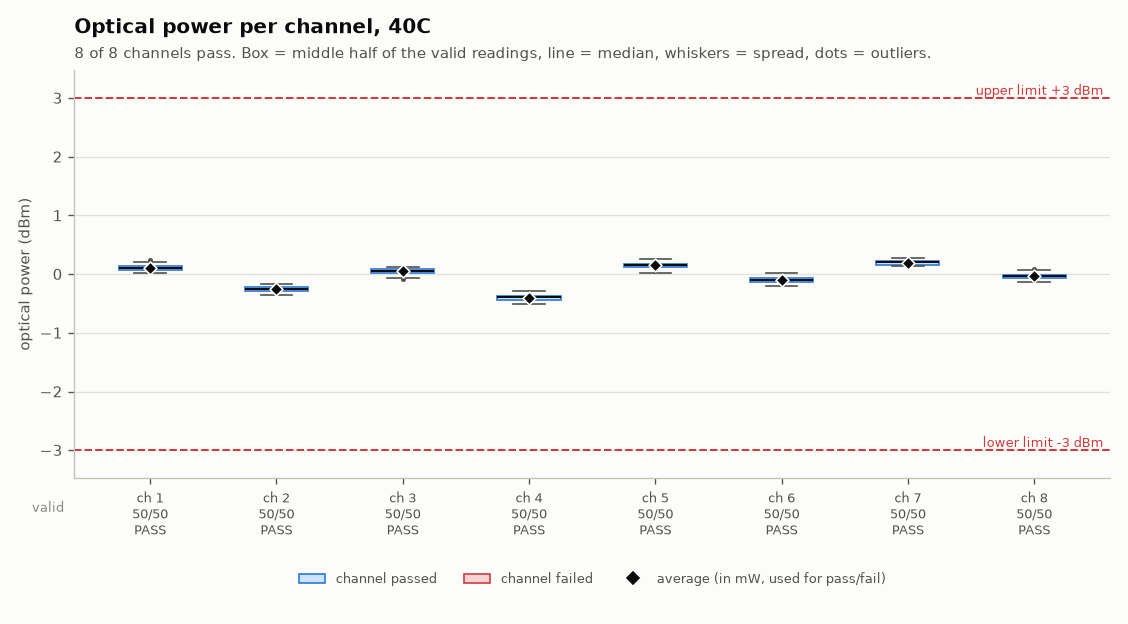
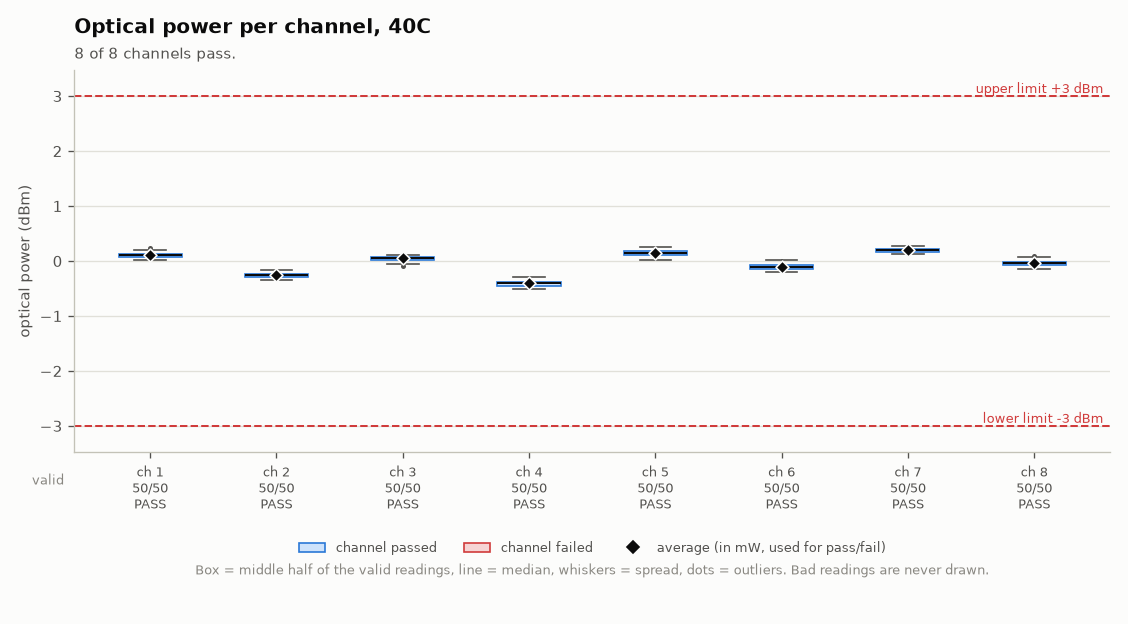
Allow a set number of bad readings per channel; redraw charts when re-checking with new limits

diff --git a/src/ate/data/plots.py b/src/ate/data/plots.py
@@ -75,6 +75,16 @@ def _title(ax, text: str, subtitle: str) -> None:
 # --------------------------------------------------------------------------- 1. power
 
 
+def _allowance(config: AppConfig) -> str:
+    """How many bad readings the limits allow, shown under each channel when it isn't zero."""
+    limits = config.limits
+    if not limits.require_all_valid:
+        return " Any number of bad readings allowed."
+    if limits.max_bad_readings:
+        return f" Up to {limits.max_bad_readings} bad reading(s) allowed per channel."
+    return ""
+
+
 def plot_power(path: Path, finals: list[RawRow], cond: ConditionResult, config: AppConfig) -> None:
     from matplotlib.lines import Line2D
     from matplotlib.patches import Patch
@@ -132,8 +142,10 @@ def plot_power(path: Path, finals: list[RawRow], cond: ConditionResult, config: 
 
     failed = sum(1 for ch in channels if ch.result != "PASS")
     _title(ax, f"Optical power per channel, {cond.label}",
-           f"{len(channels) - failed} of {len(channels)} channels pass. "
-           "Box = middle half of the valid readings, line = median, whiskers = spread, dots = outliers.")
+           f"{len(channels) - failed} of {len(channels)} channels pass.{_allowance(config)}")
+    ax.text(0.5, -0.29, "Box = middle half of the valid readings, line = median, whiskers = spread, "
+            "dots = outliers. Bad readings are never drawn.", transform=ax.transAxes, ha="center",
+            va="top", fontsize=8, color=MUTED)
     ax.legend(
         handles=[Patch(facecolor=BAND, edgecolor=SERIES[0], label="channel passed"),
                  Patch(facecolor="#f6d4d4", edgecolor=CRITICAL, label="channel failed"),
@@ -270,14 +282,18 @@ def plot_status(path: Path, all_rows: list[RawRow], finals: list[RawRow], cond: 
 # --------------------------------------------------------------------------- all of them
 
 
-def write_plots(run_dir: Path, rows: list[RawRow], summary: RunSummary, config: AppConfig) -> list[Path]:
-    """Draw every chart for a run into its folder. Returns the files written."""
+def write_plots(run_dir: Path, rows: list[RawRow], summary: RunSummary, config: AppConfig,
+                suffix: str = "") -> list[Path]:
+    """Draw every chart for a run into its folder. Returns the files written.
+
+    ``suffix`` keeps re-processed charts (new limits) apart from the originals, which are never overwritten.
+    """
     run_dir = Path(run_dir)
     finals = final_attempts(rows)
     conditions = {c.label: c for c in config.sequence.conditions}
     written = []
     for cond in summary.conditions:
-        name = _safe(cond.label)
+        name = _safe(cond.label) + suffix
         jobs = [
             (f"power_{name}.png", lambda p: plot_power(p, finals, cond, config)),
             (f"temperature_{name}.png", lambda p: plot_temperature(p, finals, cond, conditions[cond.label], config)),
@@ -289,8 +305,9 @@ def write_plots(run_dir: Path, rows: list[RawRow], summary: RunSummary, config: 
     return written
 
 
-def plot_run(run_dir: Path) -> list[Path]:
-    """Draw the charts for a saved run (``ate plot``), using the config it was run with."""
+def plot_run(run_dir: Path, config_path: Path | None = None, suffix: str = "") -> list[Path]:
+    """Draw the charts for a saved run: with the config it was run with (``ate plot``), or with new
+    limits from another config (``ate reprocess --config``, which passes a suffix)."""
     from ate.config import load_config
     from ate.data.analysis import analyze, load_raw_rows
     from ate.data.report import CONFIG_FILE, RAW_FILE, RUN_INFO_FILE, read_json
@@ -299,9 +316,9 @@ def plot_run(run_dir: Path) -> list[Path]:
     raw_path = run_dir / RAW_FILE
     if not raw_path.is_file():
         raise FileNotFoundError(f"no {RAW_FILE} in {run_dir}")
-    config = load_config(run_dir / CONFIG_FILE)
+    config = load_config(config_path or run_dir / CONFIG_FILE)
     info = read_json(run_dir / RUN_INFO_FILE) if (run_dir / RUN_INFO_FILE).is_file() else {}
     rows = load_raw_rows(raw_path)
     summary = analyze(rows, config, info.get("run_id", run_dir.name),
                       info.get("device_serial", config.run.device_serial))
-    return write_plots(run_dir, rows, summary, config)
+    return write_plots(run_dir, rows, summary, config, suffix)

diff --git a/tests/data/test_plots.py b/tests/data/test_plots.py
@@ -8,7 +8,7 @@ from ate.cli import main
 from ate.data import plots
 from ate.data.analysis import RawRow, final_attempts, load_raw_rows
 from ate.data.models import Status
-from tests.helpers import build_config, load_data, run
+from tests.helpers import CONFIG_DIR, build_config, load_data, run
 
 pytest.importorskip("matplotlib")
 
@@ -80,3 +80,24 @@ def test_plot_command_draws_charts_for_an_old_run(tmp_path, capsys):
 
 def test_plot_command_on_a_folder_without_data_is_an_error(tmp_path):
     assert main(["plot", str(tmp_path)]) == 2
+
+
+def test_the_power_chart_label_shows_how_many_bad_readings_are_allowed(tmp_path):
+    assert plots._allowance(build_config(tmp_path)) == ""
+    assert "Up to 2 bad reading(s) allowed" in plots._allowance(build_config(tmp_path, limits__max_bad_readings=2))
+    assert "Any number" in plots._allowance(build_config(tmp_path, limits__require_all_valid=False))
+
+
+def test_reprocess_with_new_limits_draws_new_charts_and_keeps_the_originals(tmp_path, capsys):
+    result = run(build_config(tmp_path, clean=True, run__save_plots=True))
+    originals = {p.name: p.read_bytes() for p in result.run_dir.glob("*.png")}
+    strict = tmp_path / "strict.yaml"
+    strict.write_text(f"extends: {CONFIG_DIR / 'default.yaml'}\nlimits:\n  avg_power_dbm: {{min: -0.1, max: 0.1}}\n")
+
+    assert main(["reprocess", str(result.run_dir), "--config", str(strict)]) == 1  # ch 4 now fails
+    summary_file = next(result.run_dir.glob("summary_reprocessed_*.csv"))
+    suffix = summary_file.stem.removeprefix("summary")
+    new = sorted(p.name for p in result.run_dir.glob(f"*{suffix}.png"))
+    assert new == [f"power_40C{suffix}.png", f"status_40C{suffix}.png", f"temperature_40C{suffix}.png"]
+    assert {p.name: p.read_bytes() for p in result.run_dir.glob("*_40C.png")} == originals
+    assert "Chart written to" in capsys.readouterr().out

diff --git a/tests/data/test_analysis.py b/tests/data/test_analysis.py
@@ -101,6 +101,20 @@ def test_require_all_valid_can_be_relaxed(tmp_path):
     assert analyse(tmp_path, rows, limits__require_all_valid=False).conditions[0].channels[0].result == PASS
 
 
+@pytest.mark.parametrize("allowed, result", [(0, FAIL), (1, FAIL), (2, PASS)])
+def test_a_set_number_of_bad_readings_can_be_allowed(tmp_path, allowed, result):
+    rows = [meas(1, 0.0), meas(2, None, Status.INVALID), meas(3, None, Status.TIMEOUT)]  # 2 bad of 3
+    ch = analyse(tmp_path, rows, limits__max_bad_readings=allowed).conditions[0].channels[0]
+    assert ch.result == result
+    assert ch.avg_dbm == 0.0  # bad readings never enter the statistics, allowed or not
+
+
+def test_allowed_bad_readings_do_not_rescue_a_channel_outside_the_limits(tmp_path):
+    rows = [meas(1, -4.0), meas(2, None, Status.INVALID), meas(3, -4.0)]
+    ch = analyse(tmp_path, rows, limits__max_bad_readings=1).conditions[0].channels[0]
+    assert ch.result == FAIL and ch.fail_reasons == ["avg_below_min"]
+
+
 def test_only_the_final_attempt_counts(tmp_path):
     rows = [meas(1, None, Status.TIMEOUT, attempt=1), meas(1, 0.0, attempt=2), meas(2, 0.0), meas(3, 0.0)]
     ch = analyse(tmp_path, rows).conditions[0].channels[0]

diff --git a/src/ate/config.py b/src/ate/config.py
@@ -144,6 +144,7 @@ class PowerLimits(_Model):
 class LimitsConfig(_Model):
     avg_power_dbm: PowerLimits = Field(default_factory=PowerLimits)
     require_all_valid: bool = True
+    max_bad_readings: int = Field(0, ge=0)  # with require_all_valid: readings per channel allowed to not end VALID
     retry_warning_fraction: float = Field(0.05, ge=0, le=1)
     temp_drift_warning: bool = True
 
@@ -236,6 +237,13 @@ class AppConfig(_Model):
             for inst in self.instruments:
                 if inst.address == "auto":
                     problems.append(f"{inst.name}: real hardware needs a real address, not 'auto'")
+
+        readings = self.sequence.measurement.readings_per_channel
+        if self.limits.require_all_valid and self.limits.max_bad_readings >= readings:
+            problems.append(
+                f"limits.max_bad_readings ({self.limits.max_bad_readings}) must be less than "
+                f"readings_per_channel ({readings}); to accept any number, set require_all_valid: false"
+            )
 
         tec_names = {t.name for t in self.tecs()}
         for cond in self.sequence.conditions:

diff --git a/src/ate/cli.py b/src/ate/cli.py
@@ -63,6 +63,15 @@ def cmd_reprocess(args: argparse.Namespace) -> int:
     summary, out = reprocess_run(Path(args.run_dir), Path(args.config) if args.config else None)
     print(format_summary(summary))
     print(f"\nSummary written to {out}")
+    if args.config:  # new limits: draw matching charts next to the originals (never over them)
+        from ate.data.plots import plot_run, plots_available
+
+        if plots_available():
+            suffix = out.stem.removeprefix("summary")  # e.g. _reprocessed_20261124-153000
+            for path in plot_run(Path(args.run_dir), Path(args.config), suffix):
+                print(f"Chart written to {path}")
+        else:
+            print('Charts not redrawn: matplotlib is not installed (pip install ".[plots]")')
     return 0 if summary.overall_result == "PASS" else 1
 
 

diff --git a/tests/config/test_config.py b/tests/config/test_config.py
@@ -55,6 +55,12 @@ def test_limits_must_be_ordered():
     assert "must be below max" in problems(load_data(), limits__avg_power_dbm={"min": 3, "max": -3})
 
 
+def test_allowed_bad_readings_must_be_fewer_than_the_readings_taken():
+    assert "max_bad_readings (50) must be less than readings_per_channel (50)" in problems(
+        load_data(), limits__max_bad_readings=50)
+    parse_config(load_data(), overrides={"limits.max_bad_readings": 50, "limits.require_all_valid": False})
+
+
 def test_offsets_must_match_channel_count():
     assert "channel_offsets_db has 2 values" in problems(load_data(), simulation__device__channel_offsets_db=[0, 0])
 

diff --git a/src/ate/data/analysis.py b/src/ate/data/analysis.py
@@ -208,7 +208,7 @@ def _channel_result(rows: list[RawRow], all_rows: list[RawRow], cond: Condition,
 
     if not values:
         result.fail_reasons.append("no_valid_readings")
-    elif limits.require_all_valid and result.valid_count < expected:
+    elif limits.require_all_valid and expected - result.valid_count > limits.max_bad_readings:
         result.fail_reasons.append(f"invalid_readings({expected - result.valid_count}/{expected})")
     if result.avg_dbm is not None:
         # Compare at a fixed resolution so the limits are truly inclusive: converting -3 dBm to mW

diff --git a/docs/DESIGN.md b/docs/DESIGN.md
@@ -624,6 +624,7 @@ sequence:
 limits:
   avg_power_dbm: { min: -3.0, max: 3.0 }
   require_all_valid: true
+  max_bad_readings: 0              # bad readings allowed per channel (0 = all must be valid)
   retry_warning_fraction: 0.05     # flag channels needing retries on >5% of readings
   temp_drift_warning: true         # flag if monitored temp leaves tolerance during measurement
 ```
@@ -807,6 +808,12 @@ If a channel has no valid readings, its statistics are blank and it fails.
 
 `ate reprocess results/<run>` re-runs the analysis on saved data, e.g. with different limits, without re-testing.
 
+### 10.4 Pass/fail rules
+- **Channel passes** if: all 50 readings' final attempts are `VALID` **and** average power is within −3 to +3 dBm. `limits.max_bad_readings` (default 0) can allow a set number of bad readings per channel; bad readings never enter the statistics either way.
+- **Temperature verification passes** if the stability check succeeds within the allowed attempts.
+- **Device passes** only if every condition's temperature verification passes **and** every channel passes in every condition.
+- Warnings (retry rate, temperature drift) are reported but don't change pass/fail by default.
+
 ### 10.5 Charts
 Three charts per condition, drawn from the raw CSV and the summary (`data/plots.py`), so `ate plot` can draw them for any saved run:
 
@@ -816,13 +823,9 @@ Three charts per condition, drawn from the raw CSV and the summary (`data/plots.
 | **Temperature**: TEC reading over time, target band shaded, settling attempts marked, measurement period shaded | Did the TEC really settle, rather than pass through the band on the way up (§8)? |
 | **Status grid**: channel × reading, coloured by outcome | Where did problems happen? A whole column shows a whole message re-asked; a single square shows one channel re-read alone (§9). |
 
-matplotlib is an optional install. Charts are drawn after the summary is saved, and any problem drawing them is logged and ignored, so they can never cost a run its data.
+Every limit, target and count on a chart comes from the config, so the charts change with it. `ate reprocess --config` draws a second set with the same `_reprocessed_<time>` name as its new summary, so the run's original charts always match its original summary.
 
-### 10.4 Pass/fail rules
-- **Channel passes** if: all 50 readings' final attempts are `VALID` **and** average power is within −3 to +3 dBm.
-- **Temperature verification passes** if the stability check succeeds within the allowed attempts.
-- **Device passes** only if every condition's temperature verification passes **and** every channel passes in every condition.
-- Warnings (retry rate, temperature drift) are reported but don't change pass/fail by default.
+matplotlib is an optional install. Charts are drawn after the summary is saved, and any problem drawing them is logged and ignored, so they can never cost a run its data.
 
 ---
 
@@ -892,7 +895,7 @@ Run ID, serial number, seed, start and end times, status (`RUNNING` / `COMPLETE`
 
 ## 13. Testing approach
 
-Full detail and results are in [TESTING.md](TESTING.md). In summary: 201 automated tests, about 11 seconds.
+Full detail and results are in [TESTING.md](TESTING.md). In summary: 208 automated tests, about 10 seconds.
 
 ### 13.1 The test layout mirrors the code
 Each part is tested on its own, next to where it lives. Only `tests/system/` tests the whole program together. A new instrument gets its own `tests/instruments/<name>/` folder.
@@ -1071,5 +1074,6 @@ AI assistance (Claude, by Anthropic) was used to discuss and refine the design, 
 | **Roles** (`core/roles.py`): `TemperatureController`, `PowerMeter` | The sequence used to look for the specific TEC/OPM driver classes. It now asks for any instrument filling a role, which makes "a different brand of meter" a one-folder change. |
 | Simulator base class in `simulation/simulator.py`, not `core/` | It depends on the simulated clock and fault injector. Putting it in `core/` would make the shared machinery depend on the simulation. |
 | **Tests reorganised to mirror the code** (`tests/core/`, `tests/instruments/tec/`, …, `tests/system/`); 107 → 192 tests | Each part is tested where it lives; only `tests/system/` tests the whole program. Added tests for the registry, roles, PyVISA over a real socket, the bench's control commands and the simulator base. |
+| `limits.max_bad_readings` (default 0) | `require_all_valid` was all or nothing. This allows a set number of bad readings per channel; 0 keeps the brief's rule. Must be fewer than the readings taken. |
 | Charts per run (`data/plots.py`, `ate plot`, `run.save_plots`) | Added after the core system was done: box and whisker of power per channel, temperature over time, and a status grid. Optional dependency, never able to fail a run (§10.5). |
 | Run folder names: a clash now draws a new name instead of crashing | Two runs of the same serial in the same second could draw the same 4-character code. The folder was (correctly) never reused, but the run crashed. Found by testing a fresh clone (TESTING.md §8). |

diff --git a/README.md b/README.md
@@ -47,7 +47,7 @@ ate run --config config/examples/weak_channel.yaml
 
 ate validate --config my.yaml           # check a config without running anything
 ate reprocess results/<run-folder>      # re-analyse saved data without re-testing
-ate reprocess results/<run> --config strict.yaml   # new limits -> new summary file, original untouched
+ate reprocess results/<run> --config strict.yaml   # new limits -> new summary + charts, originals untouched
 ate plot results/<run-folder>           # draw the charts for a saved run (e.g. one made before charts existed)
 
 ate bench                               # start the simulators and leave them running...
@@ -60,7 +60,7 @@ Exit codes: `0` device passed, `1` device failed, `2` run aborted or invalid inp
 
 | Config | Shows |
 |---|---|
-| `config/default.yaml` | The brief: 40 °C ± 0.5, 50 readings × 8 channels, −3 to +3 dBm |
+| `config/default.yaml` | The brief: 40 °C ± 0.5, 50 readings × 8 channels, −3 to +3 dBm, all readings valid (`limits.max_bad_readings: 0`; raise it to allow a few bad readings per channel) |
 | `examples/weak_channel.yaml` | Channel 5 is 4 dB dim. All readings valid, channel fails on average power |
 | `examples/flaky_meter.yaml` | High fault rates. Retries, single-channel re-reads, invalid readings kept |
 | `examples/tec_wont_settle.yaml` | TEC settles 0.8 °C too hot. Two settling attempts, verification fails, light still measured |
@@ -72,7 +72,7 @@ Example configs use `extends: ../default.yaml` and override only what differs.
 ### Running the tests
 
 ```bash
-pytest                    # full suite (about 11 s)
+pytest                    # full suite (about 10 s)
 pytest tests/instruments/tec          # just one part, e.g. the TEC
 pytest -m "not slow"      # skip the 200-run statistical check
 pytest -m "not network"   # skip tests that open local network ports
@@ -145,7 +145,7 @@ See [docs/DESIGN.md](docs/DESIGN.md) for the full explanation.
 | `temperature_<condition>.png` | TEC temperature over time against the target band, settling attempts, and when light was measured |
 | `status_<condition>.png` | One square per planned reading, coloured by what happened: valid, valid after retry, timeout/garbled, invalid, not measured |
 
-Charts are drawn at the end of every run when matplotlib is installed (`pip install ".[plots]"`; included in `.[dev]`). Turn them off with `run.save_plots: false`. They are a convenience: if matplotlib is missing or a chart fails to draw, the run and its data are unaffected.
+Charts are drawn at the end of every run when matplotlib is installed (`pip install ".[plots]"`; included in `.[dev]`). Turn them off with `run.save_plots: false`. Charts follow the config: limit lines, the target band, pass/fail colours and the number of readings all come from it. Re-checking a run against new limits (`ate reprocess --config`) draws a second set of charts with the same `_reprocessed_<time>` name as the new summary, leaving the originals alone. They are a convenience: if matplotlib is missing or a chart fails to draw, the run and its data are unaffected.
 
 ---
 
@@ -172,7 +172,7 @@ Details: [docs/DESIGN.md §14](docs/DESIGN.md#14-extensibility).
 
 ## Testing approach (summary)
 
-201 automated tests, running in about 11 seconds (details and results in [docs/TESTING.md](docs/TESTING.md)). **The `tests/` folder mirrors `src/ate/`**: each part is tested next to where it lives, and only `tests/system/` tests the whole program together.
+208 automated tests, running in about 10 seconds (details and results in [docs/TESTING.md](docs/TESTING.md)). **The `tests/` folder mirrors `src/ate/`**: each part is tested next to where it lives, and only `tests/system/` tests the whole program together.
 
 | Tests | Check |
 |---|---|

diff --git a/docs/TESTING.md b/docs/TESTING.md
@@ -3,11 +3,11 @@
 How the system was verified, including error scenarios. All checks are automated and run with:
 
 ```bash
-pytest                         # 201 tests, about 11 seconds
+pytest                         # 208 tests, about 10 seconds
 pytest tests/instruments/tec   # or just one part
 ```
 
-**Result at time of writing: 201 passed, 0 failed** (Python 3.13.1, macOS). Before the charts were added, the 193 tests then in the suite passed on 12 consecutive full runs (see §8, issue 3).
+**Result at time of writing: 208 passed, 0 failed** (Python 3.13.1, macOS). Before the charts were added, the 193 tests then in the suite passed on 12 consecutive full runs (see §8, issue 3).
 
 ---
 
@@ -47,6 +47,7 @@ Two techniques make this possible:
 - No valid readings: statistics are blank and the channel fails with `no_valid_readings`
 - Only the final attempt of each reading counts; retries are counted separately
 - A high retry rate produces a warning but not a failure
+- `max_bad_readings`: with 2 bad readings out of 3, a channel fails when 0 or 1 are allowed and passes when 2 are; bad readings stay out of the statistics either way, and allowing them never rescues a channel whose average is outside the limits
 - Temperature failure fails the device even when every channel passes
 - Stability: an invalid reading restarts the window, and a temperature **still rising through** the tolerance band is not counted as stable
 
@@ -73,10 +74,12 @@ Two techniques make this possible:
 - A run saves three charts per condition (six for the two-temperature config), and none when `save_plots` is off
 - **Charts can never break a run:** with matplotlib missing, or with a chart that fails to draw, the run still completes, the summary is still written, and the log says why there are no charts
 - `ate plot` draws charts for an old run, and reports an error for a folder with no data
+- `ate reprocess --config` with new limits draws a second, separately named set of charts; the original charts are byte-for-byte unchanged
+- The power chart says how many bad readings the limits allow
 
 Charts are left out of every other test (`save_plots: false` in the test helper), so the suite stays fast.
 
-**Configuration** (`tests/config/test_config.py`): each validation rule produces its plain-language error. The rules covered are reversed limits, offsets/channel-count mismatch, interval shorter than averaging, timeout not longer than averaging, a stable window longer than max wait, a time scale outside 0–1, fault rate > 1, typos in setting names (including inside an instrument's own settings), duplicate instrument names, unknown instrument types (with the list of known ones), a channel wired to two meters or none, too many channels for a meter, `auto` addresses with real hardware, no TEC, and duplicate condition names. Also checked:
+**Configuration** (`tests/config/test_config.py`): each validation rule produces its plain-language error. The rules covered are reversed limits, offsets/channel-count mismatch, interval shorter than averaging, timeout not longer than averaging, a stable window longer than max wait, a time scale outside 0–1, fault rate > 1, allowing as many bad readings as are taken, typos in setting names (including inside an instrument's own settings), duplicate instrument names, unknown instrument types (with the list of known ones), a channel wired to two meters or none, too many channels for a meter, `auto` addresses with real hardware, no TEC, and duplicate condition names. Also checked:
 - each instrument's settings are handled by the settings model in its own folder
 - every example config is valid
 - `extends:` inherits everything not overridden
